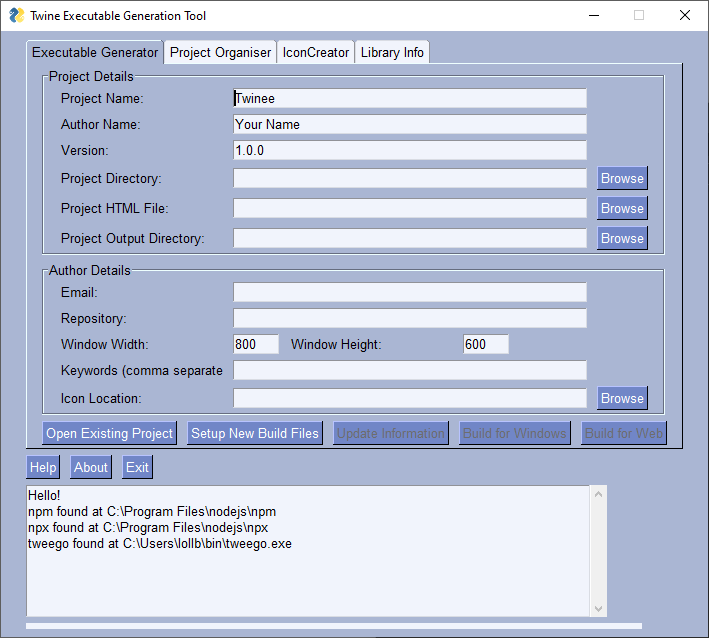
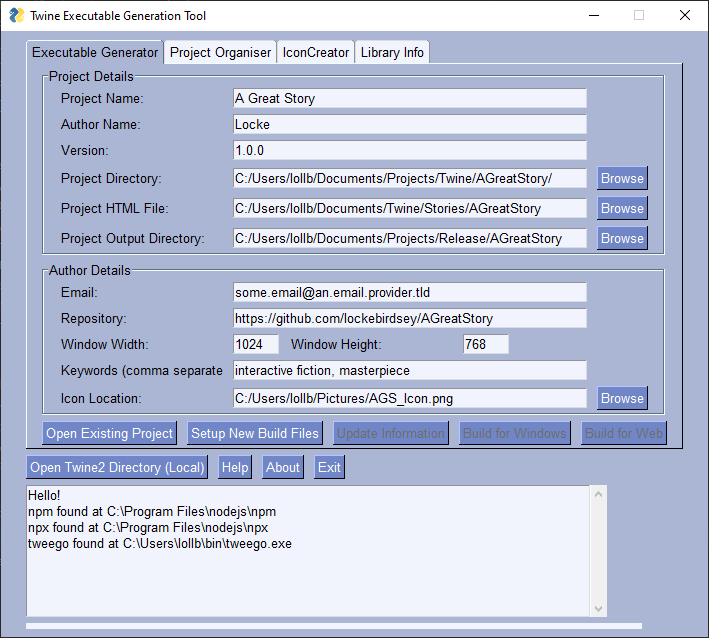
new screenshot, added button to open default Twine directory

diff --git a/builder.py b/builder.py
@@ -1,4 +1,5 @@
 import multiprocessing
+import os
 import shutil
 from pathlib import Path
 from queue import Empty
@@ -66,7 +67,8 @@ class Builder(core.Core):
                           key="SETUPBUTTON"),
                 sg.Button("Update Information", key="UPDATEBUTTON", disabled=True),
                 sg.Button('Build for ' + self.system_type, disabled=True, key="BUILDBUTTON"),
-                sg.Button('Build for Web', disabled=True, key="BUILDWEBBUTTON")]]
+                sg.Button('Build for Web', disabled=True, key="BUILDWEBBUTTON")]
+        ]
         tab2_layout = [
             [sg.Frame(layout=[
                 [sg.Text('Twine HTML File:', size=entry_size),
@@ -110,7 +112,7 @@ class Builder(core.Core):
                                  sg.Tab("Library Info", tab4_layout, tooltip="Library Info")
                                  ]])],
 
-                  [sg.Button('Help'), sg.Button('About'),
+                  [sg.Button('Open Twine2 Directory (Local)', key="Twine2Local"), sg.Button('Help'), sg.Button('About'),
                    sg.Button('Exit')],
                   [sg.Multiline('Hello!\n', size=(entry_size[0] * 4, entry_size[1] * 8), key="dialogue",
                                 autoscroll=True, disabled=True)],
@@ -155,8 +157,25 @@ class Builder(core.Core):
             if event in (None, "ORGANISE"):
                 html_path = values["TWINEHTML"]
                 out_dir = values["ORGANISEDDIR"]
-                t = TMO(html_path, out_dir)
-                t.run()
+                if html_path is "" or out_dir is "":
+                    self.logger.info("Project Organiser: Incomplete paths were provided")
+                else:
+                    t = TMO(html_path, out_dir)
+                    t.run()
+            if event in (None, "Twine2Local"):
+                # System specific open commands
+                # Twine2 files lives in ~/Documents/Twine
+                home = Path.home()
+                try:
+                    if self.system_type is "Windows":
+                        os.startfile(home.joinpath("Documents").joinpath("Twine"))
+                    else:
+                        opener = "open" if self.system_type == "darwin" else "xdg-open"
+                        twine_path = home.joinpath("Documents").joinpath("Twine")
+                        self.run_command_store_output(opener, [str(twine_path)])
+                except Exception as e:
+                    self.logger.debug(
+                        "An error occurred. If needed, submit the following error message to the TwET Github. " + str(e))
             if event in (None, "UPDATEBUTTON"):
                 self.update_dictionaries(values)
                 self.create_lock_file(Path(self.project[PROJ_BUILD_DIR]))
